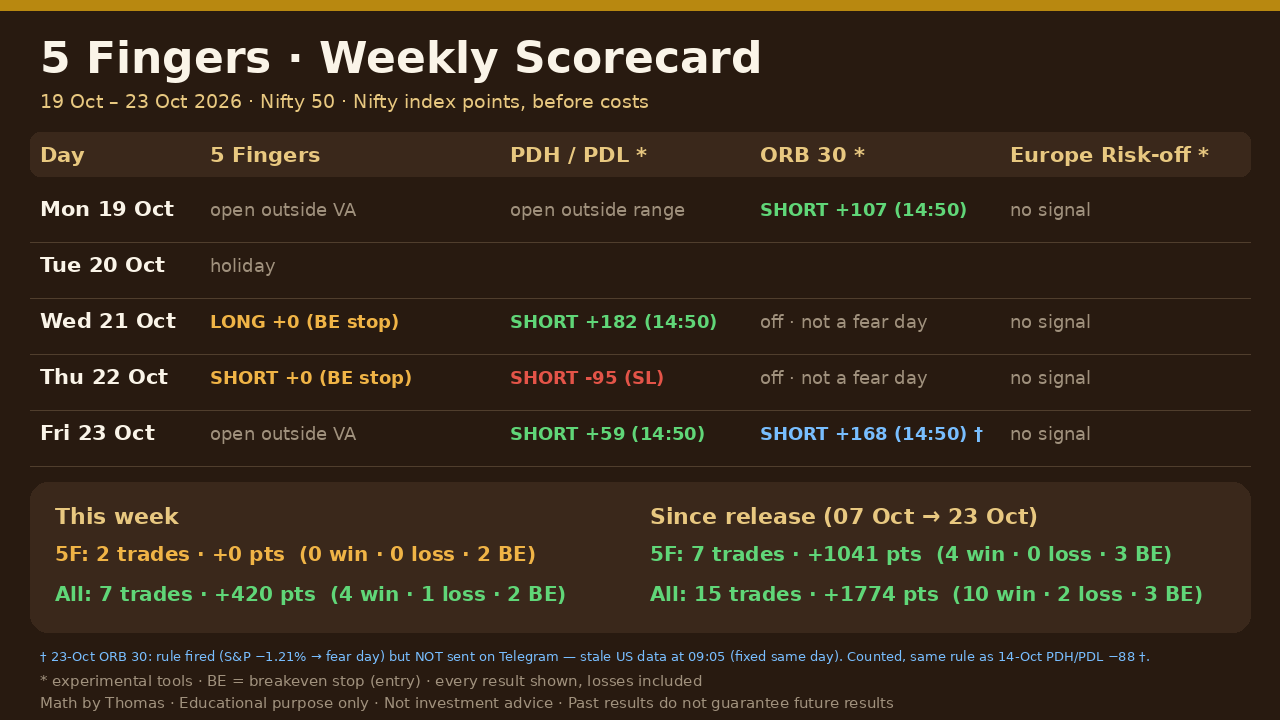
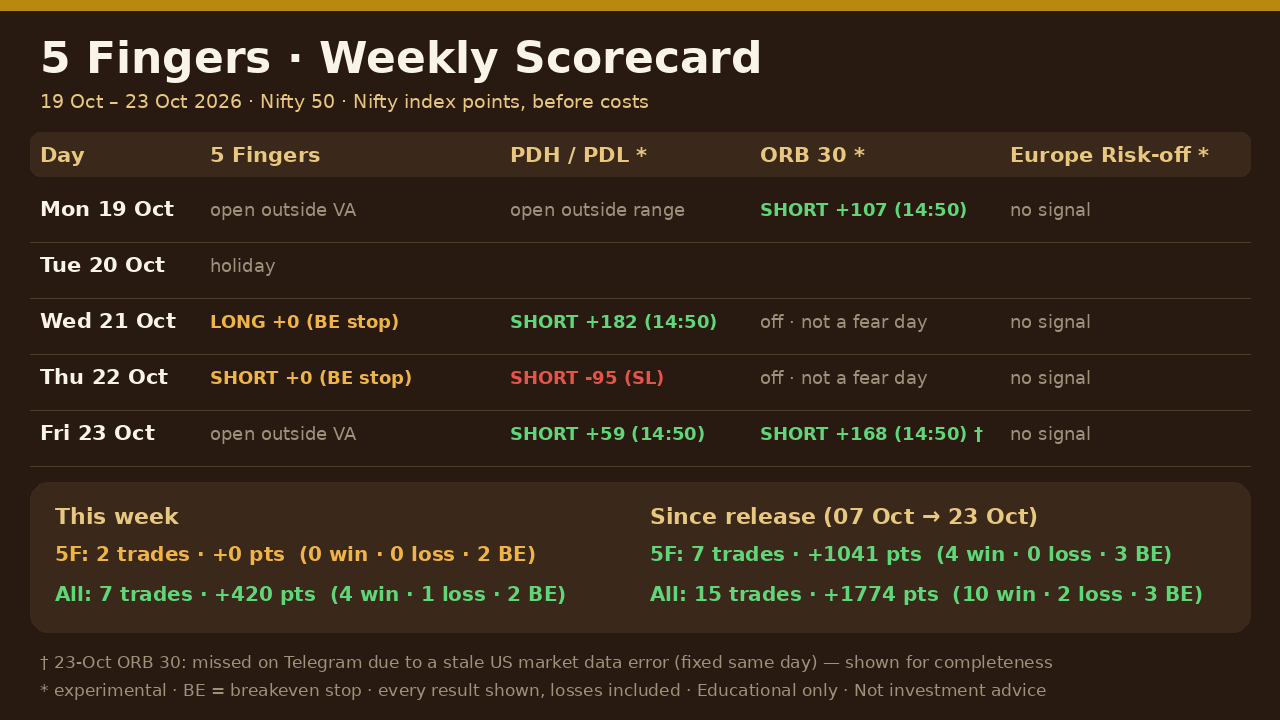
Add files via upload

Changed region(s): [[0.0312, 0.8861, 0.9062, 1.0], [0.5938, 0.5806, 0.7812, 0.6111]]

diff --git a/index.html b/index.html
@@ -40,6 +40,19 @@
       <div class="stat"><b class="pos">+1,774</b><span>All tools · 15 trades<br>10 win · 2 loss · 3 breakeven</span></div>
       <div class="stat"><b>3 weeks</b><span>Too short to judge any system. Watch the weekly scorecards over months.</span></div>
     </div>
+
+    <h3 style="margin-top:28px">Dashboard · all tools</h3>
+    <div class="stats" style="grid-template-columns:repeat(auto-fit,minmax(160px,1fr))">
+      <div class="stat"><b>12</b><span>Trading days<br>(market open since release)</span></div>
+      <div class="stat"><b>2</b><span>No-trade days<br>(no rule fired)</span></div>
+      <div class="stat"><b class="pos">7</b><span>Profit days</span></div>
+      <div class="stat"><b class="neg">2</b><span>Loss days<br>(+1 breakeven day)</span></div>
+      <div class="stat"><b class="pos">+1,774</b><span>Total points<br>before costs</span></div>
+      <div class="stat"><b class="neg">−95</b><span>Max drawdown<br>(points, peak to low, closed trades)</span></div>
+      <div class="stat"><b>10.7</b><span>Profit factor<br>(gross profit ÷ gross loss)</span></div>
+      <div class="stat"><b>67%</b><span>Winning trades<br>(10 of 15)</span></div>
+    </div>
+    <p class="ta" style="margin-top:10px">Updated every Friday · includes 14 Oct −88 † and 23 Oct +168 † (rule fired, missed on Telegram by a data error) · only 12 trading days — these numbers will change a lot and are not a forecast.</p>
     <p style="margin-top:12px"><a href="scorecards.html">Weekly scorecards →</a></p>
   </section>
 

diff --git a/scorecards.html b/scorecards.html
@@ -53,8 +53,7 @@
 
   <section class="week">
     <h2>Week 3 · 19 – 23 Oct 2026</h2>
-    <p>5 Fingers: 2 trades, +0 (2 breakeven) · All tools: 7 trades, +420 (4 win · 1 loss · 2 breakeven). Tue 20 Oct: market holiday.</p>
-    <p class="ta">† 23 Oct ORB 30 SHORT +168: the rule fired (S&amp;P 500 closed −1.21% → fear day), but at 09:05 the US data source returned a stale price, so the server did not send the signal. Fixed the same day. Counted under the same rule as the 14 Oct −88 loss.</p>
+    <p>5 Fingers: 2 trades, +0 · All tools: 7 trades, +420 (4 win · 1 loss · 2 breakeven, incl. 23 Oct ORB 30 +168 †)</p>
     <img src="scorecard-2026-10-19.png" alt="5 Fingers weekly scorecard 19 to 23 October 2026" loading="lazy">
   </section>
 
@@ -66,7 +65,7 @@
 
   <section class="week">
     <h2>Week 1 · 07 – 09 Oct 2026</h2>
-    <p>Public release on Wednesday 07 Oct. 5 Fingers: 3 trades, +551 (2 win · 1 breakeven).</p>
+    <p>5 Fingers: 3 trades, +551 · All tools: 3 trades, +551 (2 win · 1 breakeven) · public release Wed 07 Oct</p>
     <img src="scorecard-2026-10-05.png" alt="5 Fingers weekly scorecard 07 to 09 October 2026" loading="lazy">
   </section>
 
